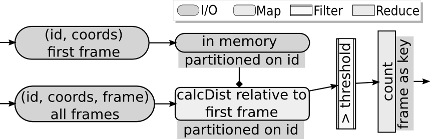
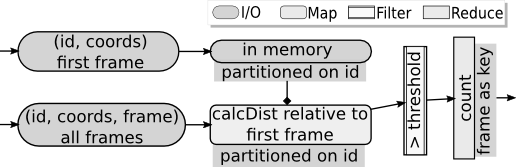
Improving the readme formatting

diff --git a/examples/demoFlow.cpp b/examples/demoFlow.cpp
@@ -4,8 +4,7 @@
  *
  * Shows iterative data-flow pipeline, a diamond like pipeline with splitter
  * followed by a joiner and other expressions such as addFlow, flow<>()...
- * ![cyclic data-flow](../doc/cyclic.png)
- * ![diamond data-flow](../doc/diamond.png)
+ * ![figures](../doc/dataflow.png)
  *
  * Results are dumped on stdout.
  * */

diff --git a/Readme.md b/Readme.md
@@ -145,13 +145,10 @@ option with different units and options.
 ## Data-flow
 
 There are no restrictions on data-flow connections except the type of columns.
-The following figures demonstrates a circular data-flow. 
+The following figures demonstrates a circular data-flow and a diamond like
+data-flow pipelines: 
 
-![circular](doc/circular.png)
-
-The following figure shows a data-flow with diamond like structure. 
-
-![diamond](doc/diamond.png)
+![dataflow](doc/dataflow.png)
 
 Each of these tasks can be running on multiple processes, depending on the
 availability and options. 
